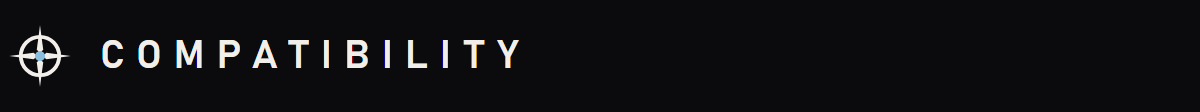
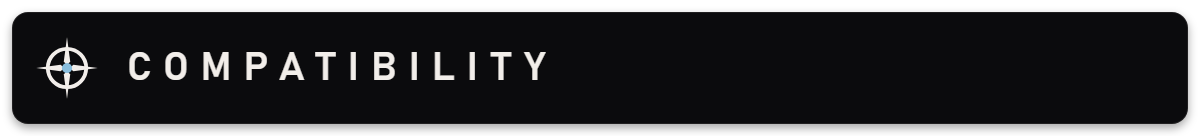
presskit: frame description images so they blend into the Nexus page
Section headers, the banner, the look-speed chart, and the features
strip used in the BBCode now sit in rounded cards with a faint edge and
soft shadow on transparent PNGs. Artwork and colors are unchanged; the
gallery uploads stay full-bleed.

Changed region(s): [[0.0, 0.0, 1.0, 1.0]]

diff --git a/presskit/src/build.py b/presskit/src/build.py
@@ -86,6 +86,29 @@ def page(body: str, css: str = "") -> str:
     return f"<!doctype html><html><head><meta charset='utf-8'><style>{BASE_CSS}{css}</style></head><body>{body}</body></html>"
 
 
+# Description-only framing: the same artwork sits in a rounded card with a faint edge and a soft
+# shadow on a transparent canvas, so it blends into the Nexus page instead of ending in a hard box.
+CARD_SMALL = (12, 16, 1, "0 4px 10px rgba(0,0,0,0.35)")
+CARD_LARGE = (24, 30, 2, "0 10px 24px rgba(0,0,0,0.35)")
+
+
+def framed(html: str, card: tuple[int, int, int, str]) -> str:
+    pad, radius, border, shadow = card
+    frame_css = (
+        f"html, body {{ background: transparent; }}"
+        f".card {{ position: absolute; inset: {pad}px; background: {BG}; border-radius: {radius}px;"
+        f" border: {border}px solid rgba(242,238,234,0.09); box-shadow: {shadow}; overflow: hidden; }}"
+    )
+    head, body = html.split("<body>", 1)
+    body = body.rsplit("</body>", 1)[0]
+    head = head.replace("</style>", frame_css + "</style>")
+    return f'{head}<body><div class="card">{body}</div></body></html>'
+
+
+def transparent(html: str) -> str:
+    return html.replace("</style>", "html, body { background: transparent; }</style>", 1)
+
+
 # --- compositions -----------------------------------------------------------
 
 
@@ -125,7 +148,7 @@ def header() -> str:
 
 def section(title: str) -> str:
     css = """
-    .wrap { position: absolute; inset: 0; display: flex; align-items: center; gap: 28px; padding: 0 8px; }
+    .wrap { position: absolute; inset: 0; display: flex; align-items: center; gap: 28px; padding: 0 22px; }
     .t { font-size: 40px; white-space: nowrap; }
     """
     body = f"""<div class="wrap">{mark(64)}<div class="t caps semi">{title}</div></div>"""
@@ -203,15 +226,20 @@ SECTIONS = [
 
 def jobs() -> list[tuple[str, str, int, int]]:
     out = [
+        # Uploads (Images tab): full-bleed.
         ("cmc-primary-1920x1080.png", primary(), 1920, 1080),
         ("cmc-header-1920x480.png", header(), 1920, 480),
         ("cmc-gallery-features-1920x1080.png", features(), 1920, 1080),
         ("cmc-gallery-look-speed-1920x1080.png", states(), 1920, 1080),
-        ("cmc-divider-1200x48.png", divider(), 1200, 48),
+        # Description (BBCode): framed cards on transparent canvases.
+        ("desc-header.png", framed(header(), CARD_LARGE), 1920, 528),
+        ("desc-features.png", framed(features(), CARD_LARGE), 1920, 640),
+        ("desc-look-speed.png", framed(states(), CARD_LARGE), 1920, 1128),
+        ("cmc-divider-1200x48.png", transparent(divider()), 1200, 48),
     ]
     for i, title in enumerate(SECTIONS, 1):
         slug = title.lower().replace(" ", "-")
-        out.append((f"section-{i:02d}-{slug}.png", section(title), 1200, 112))
+        out.append((f"section-{i:02d}-{slug}.png", framed(section(title), CARD_SMALL), 1200, 136))
     return out
 
 
@@ -221,7 +249,8 @@ def render(html: str, dest: Path, w: int, h: int, work: Path) -> None:
     subprocess.run(
         [
             str(EDGE), "--headless=new", "--disable-gpu", "--hide-scrollbars",
-            "--force-device-scale-factor=1", f"--user-data-dir={work / 'profile'}",
+            "--force-device-scale-factor=1", "--default-background-color=00000000",
+            f"--user-data-dir={work / 'profile'}",
             f"--window-size={w},{h}", f"--screenshot={dest}", src.as_uri(),
         ],
         check=True, capture_output=True, timeout=120,

diff --git a/presskit/README.md b/presskit/README.md
@@ -28,9 +28,17 @@ Upload these on the Nexus **Images** tab. Make the primary image the mod's **Pri
   <img src="nexus/cmc-gallery-features-1920x1080.png" width="49%">
 </p>
 
-## Description section headers
+## Description images
 
-The BBCode file already uses these. They are 1200×112, plus a 1200×48 divider.
+The BBCode file already uses these. Each sits in a rounded card with a faint edge and a soft shadow, on a transparent PNG, so it blends into the Nexus page. The gallery uploads above stay full-bleed.
+
+| Image | Size |
+|---|---|
+| [`desc-header.png`](nexus/desc-header.png) | 1920×528 |
+| [`desc-look-speed.png`](nexus/desc-look-speed.png) | 1920×1128 |
+| [`desc-features.png`](nexus/desc-features.png) | 1920×640 |
+| `section-*.png` | 1200×136 |
+| [`cmc-divider-1200x48.png`](nexus/cmc-divider-1200x48.png) | 1200×48, mark only |
 
 ![About](nexus/section-01-about.png)
 ![Features](nexus/section-02-features.png)
